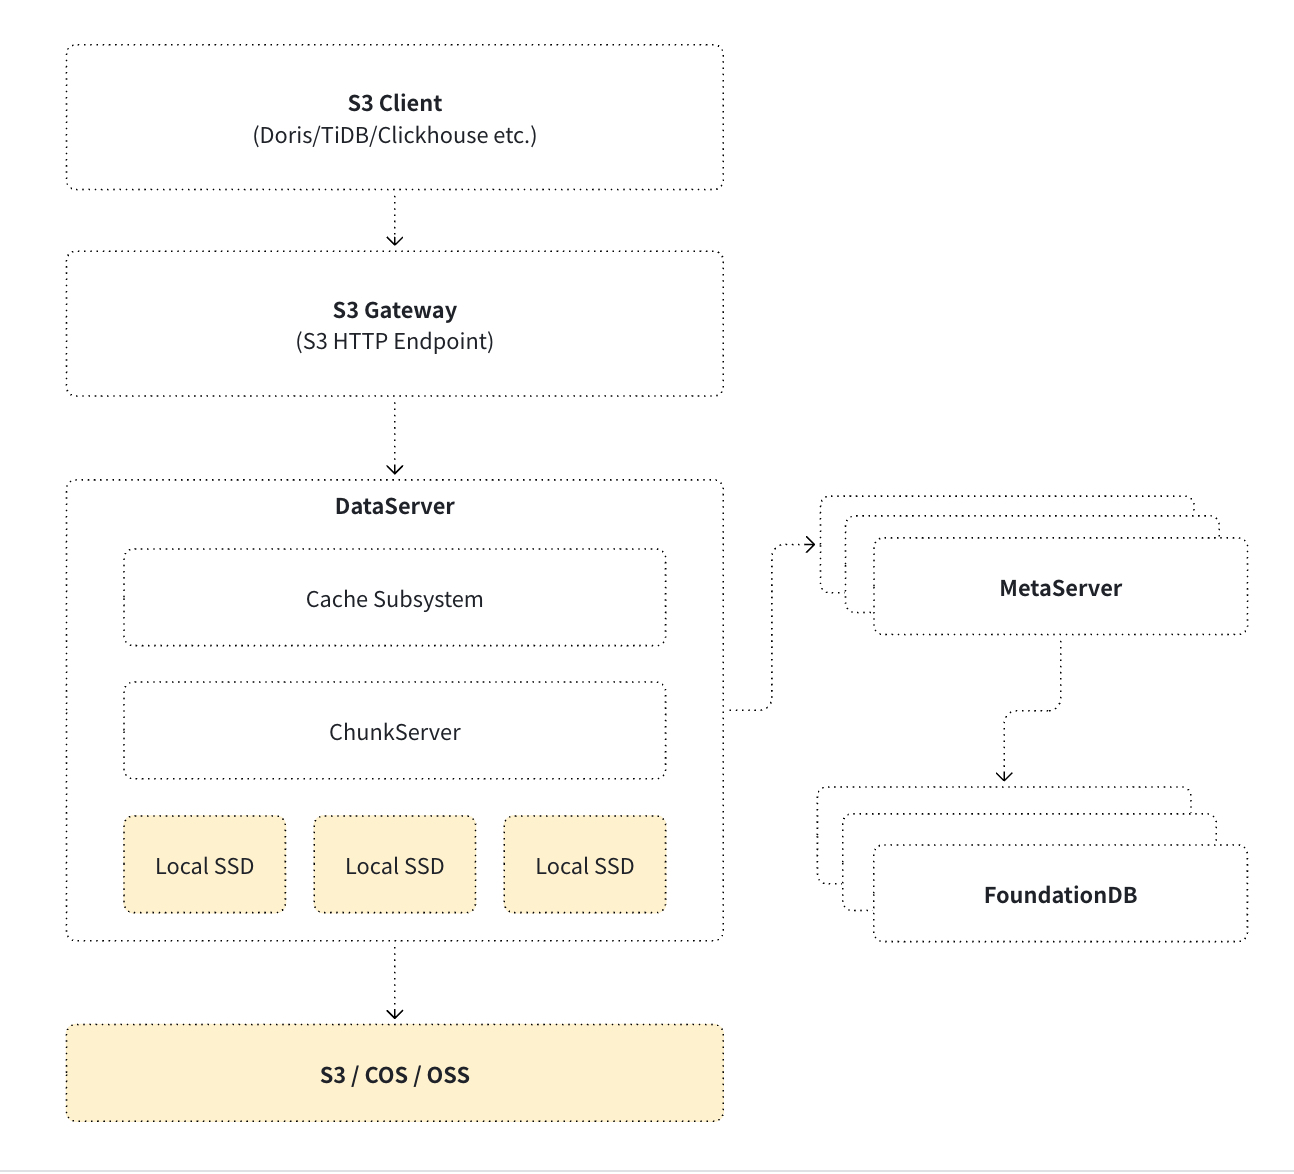
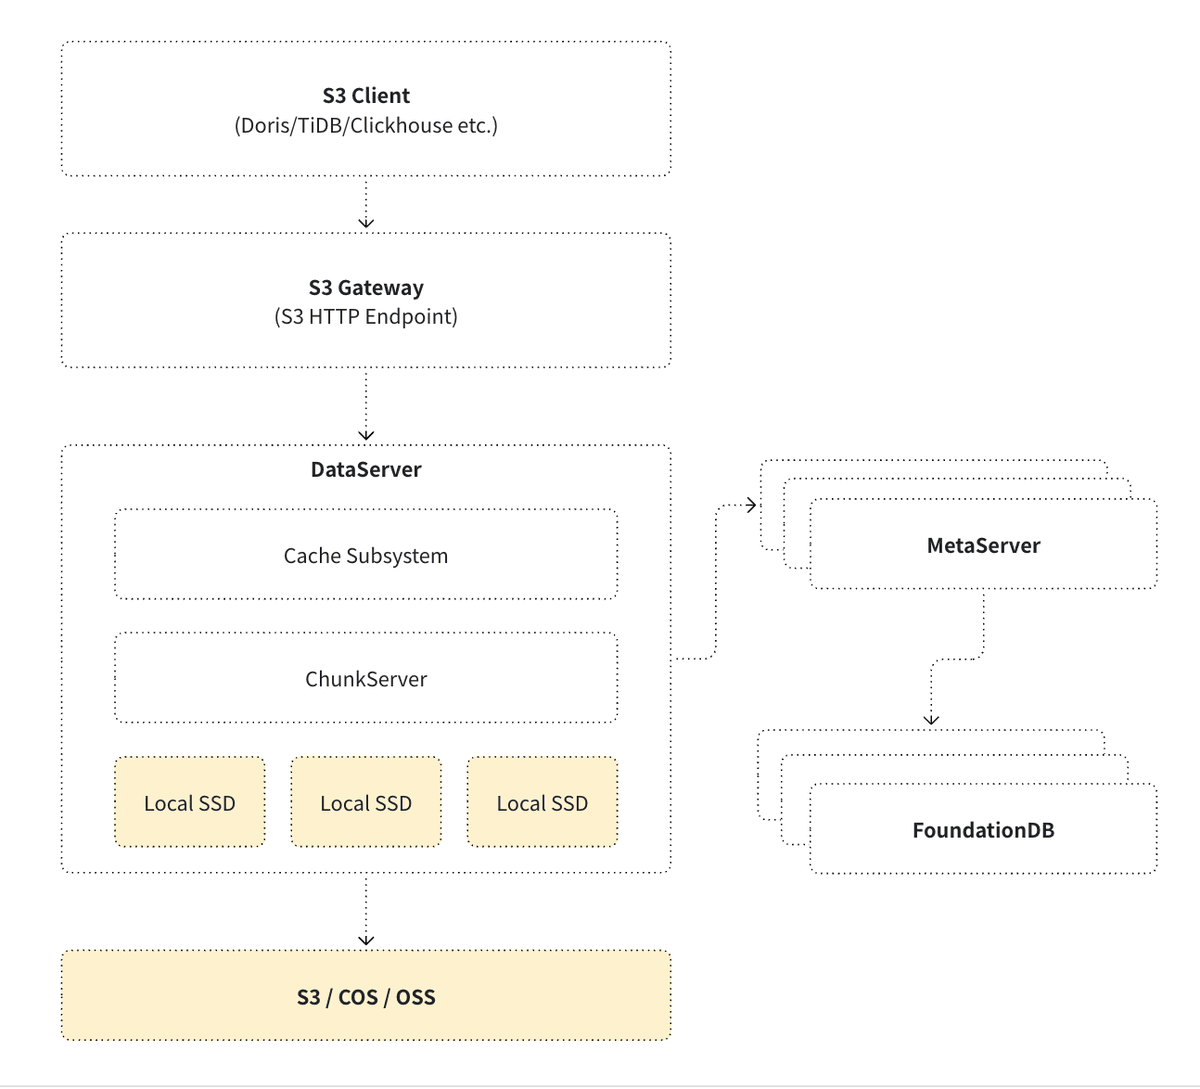
Optimize hero/diagram PNGs (resize + pngquant); WebP for hero; dimensions for CLS
Made-with: Cursor

diff --git a/index.html b/index.html
@@ -474,7 +474,10 @@
             <h1>Practical Architecture for<br><span class="highlight">Object Storage Acceleration</span></h1>
             <p class="tagline">High-performance, S3-compatible caching and write acceleration for cloud object storage</p>
 
-            <img class="hero-image" src="assets/images/ecosystem.png" alt="KyteStore ecosystem: S3 applications, gateway, cache and storage tiers, and public cloud object storage" decoding="async">
+            <picture>
+                <source srcset="assets/images/ecosystem.webp" type="image/webp">
+                <img class="hero-image" src="assets/images/ecosystem.png" width="1200" height="1363" alt="KyteStore ecosystem: S3 applications, gateway, cache and storage tiers, and public cloud object storage" decoding="async" fetchpriority="high">
+            </picture>
             <p class="hero-caption">Ecosystem placement: an S3-compatible front end for your apps, with cached reads and accelerated writes back to remote buckets.</p>
         </div>
     </section>
@@ -520,7 +523,7 @@
             <h2>Multi-Layer Design for Performance and Reliability</h2>
             <p>KyteStore separates the stateless S3 gateway, caching tier, replicated chunk storage, and metadata service so each layer can scale and evolve on its own. The diagram below summarizes how requests move through the stack.</p>
 
-            <img class="arch-diagram" src="assets/images/architecture.png" alt="KyteStore architecture diagram: S3 gateway, cache subsystem, ChunkServer, MetaServer, and remote object storage" loading="lazy" decoding="async">
+            <img class="arch-diagram" src="assets/images/architecture.png" width="1200" height="1089" alt="KyteStore architecture diagram: S3 gateway, cache subsystem, ChunkServer, MetaServer, and remote object storage" loading="lazy" decoding="async">
         </div>
     </section>
 
